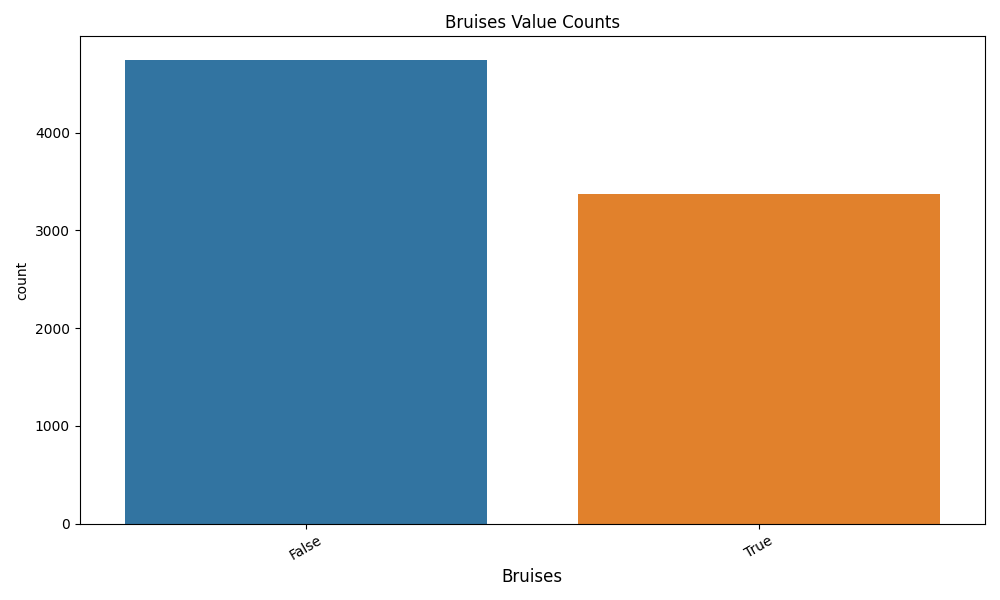
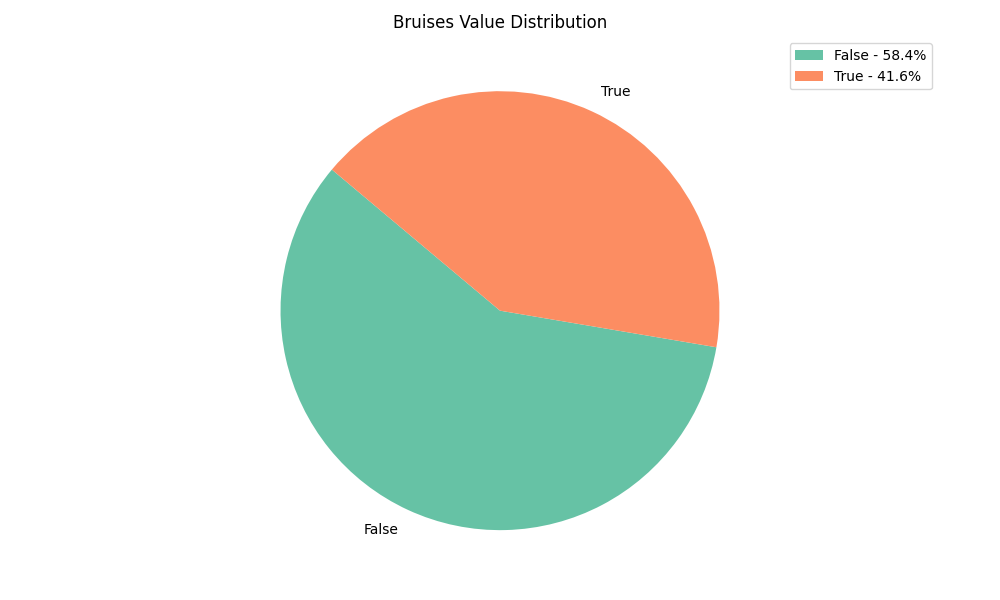
graphs_edits

diff --git a/source.py b/source.py
@@ -9,12 +9,36 @@ df = pd.read_csv("mushroom_data.csv")
 def plot_graphs(df):
     output_directory = "/Users/makikooni/Github/mushroom_data/Figures"
     columns = df.columns.tolist()
+    
+    unique_palette = sns.color_palette("Set2", n_colors=len(columns)) 
+    sns.set_palette(unique_palette)
+    
     for column in columns:
         plt.figure(figsize=(10, 6))
-        sns.countplot(data=df, x=column, order=df[column].value_counts().index)
-        plt.title(column + " Value Counts")
-        plt.xticks(rotation=30, fontsize=10)
-        plt.xlabel(column, fontsize=12)
+        unique_values = df[column].nunique()
+        value_counts = df[column].value_counts()
+        
+        if unique_values >= 5 or max(value_counts) / sum(value_counts) > 0.9:
+            sns.countplot(data=df, x=column, order=df[column].value_counts().index)
+            plt.title(column + " Value Counts")
+            plt.xticks(rotation=30, fontsize=10)
+            plt.xlabel(column, fontsize=12)
+            
+
+            for i, count in enumerate(value_counts):
+                plt.text(i, count + 10, str(count), ha='center', fontsize=10)
+                
+        else:
+            value_counts = df[column].value_counts()
+            pie_chart = plt.pie(value_counts, labels=value_counts.index, startangle=140)
+            plt.title(column + " Value Distribution")
+            
+            percentages = [f"{(val / sum(value_counts)) * 100:.1f}%" for val in value_counts]
+            legend_labels = [f"{index} - {percentage}" for index, percentage in zip(value_counts.index, percentages)]
+            
+            plt.legend(pie_chart[0], legend_labels, loc="upper right", bbox_to_anchor=(1.3,1 ))
+        
+            
         output_filename = os.path.join(output_directory, f"{column}_countplot.png")
         plt.tight_layout()
         plt.savefig(output_filename)
